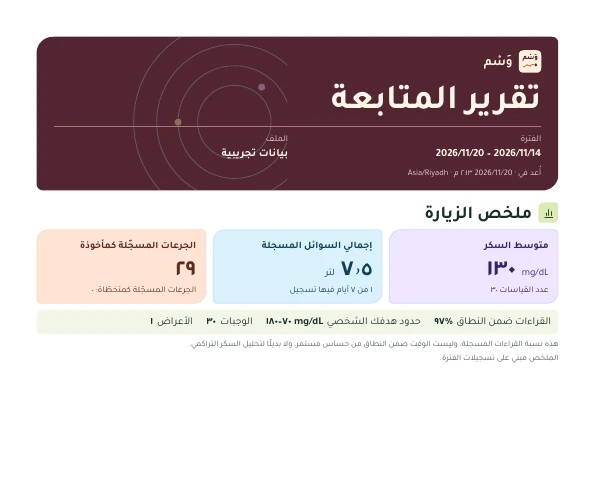
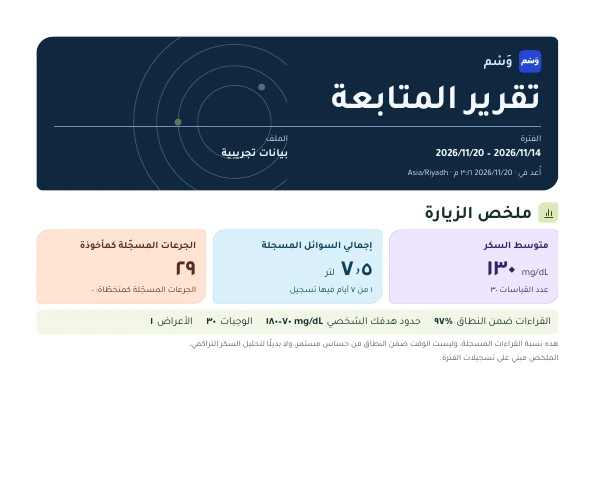
Release v0.18.0: Apply the approved Wasm identity and refresh the README

Changed region(s): [[0.0605, 0.0619, 0.9378, 0.4021]]

diff --git a/app/src/main/java/com/yawmi/diabetes/Reports.kt b/app/src/main/java/com/yawmi/diabetes/Reports.kt
@@ -170,12 +170,7 @@ object Reports {
               <circle cx='179' cy='100' r='4' fill='#d9f587'/><circle cx='277' cy='59' r='4' fill='#dbcaef'/>
             </svg>
             <div class='brand'><svg class='logo' viewBox='0 0 108 108' aria-hidden='true'>
-                <path fill='#FFF2DE' d='M24,0 H84 Q108,0 108,24 V84 Q108,108 84,108 H24 Q0,108 0,84 V24 Q0,0 24,0 Z'/><path fill='#522533' d='M38.5487 37.9203H41.4777V41.9024H38.1208Q35.8829 41.9024 34.3032 40.7506Q32.6248 41.9024 30.0249 41.9024H25.4504Q24.1998 41.9024 23.6732 42.4455Q23.1467 42.9885 23.1467 44.272V50.0971L19 52.2692V44.0745Q19 41.4746 20.4316 39.8291Q21.8632 38.1836 24.2985 37.9532Q23.6403 36.3406 23.6403 34.3002Q23.6403 30.6801 25.615 28.5738Q27.3592 26.7308 30.2224 26.7308Q33.1514 26.7308 34.7969 28.6067Q36.212 30.2193 36.212 32.8192V35.5508Q36.212 36.8343 36.7551 37.3773Q37.2981 37.9203 38.5487 37.9203ZM32.0654 36.0773V32.7534Q32.0654 30.5813 30.2224 30.5813Q29.0376 30.5813 28.363 31.5357Q27.6883 32.4901 27.6883 34.1685Q27.6883 37.9203 30.1566 37.9203Q32.0654 37.9203 32.0654 36.0773Z M39.5031 41.9024V37.9203H42.9915Q44.2421 37.9203 44.7851 37.3773Q45.3282 36.8343 45.3282 35.5508V31.2066L49.4748 29.0346V35.5508Q49.4748 36.8343 50.0014 37.3773Q50.528 37.9203 51.7786 37.9203H54.0165Q55.267 37.9203 55.7936 37.3773Q56.3202 36.8343 56.3202 35.5508V30.351L60.4669 28.146V35.5508Q60.4669 36.8343 61.0099 37.3773Q61.5529 37.9203 62.8035 37.9203H65.0414Q66.292 37.9203 66.8185 37.3773Q67.3451 36.8343 67.3451 35.5508V29.4624L71.4918 27.2903V35.7482Q71.4918 38.6772 69.7146 40.3557Q68.1678 41.8366 65.6338 41.9024H62.3756Q59.9403 41.9024 58.3935 40.4544Q56.9784 41.8695 54.6417 41.9024H51.3836Q48.9483 41.9024 47.4015 40.4544Q45.8547 41.9024 43.4194 41.9024Z M84.8533 40.948Q83.8331 41.1455 82.7471 41.1455Q79.7193 41.1455 77.9093 38.8747Q76.4283 36.9659 76.4283 34.2673Q76.4283 30.6472 78.4029 28.5738Q80.1472 26.7308 83.0103 26.7308Q85.9394 26.7308 87.5849 28.6067Q89 30.2193 89 32.8192V39.862Q89 43.7454 86.9596 45.9833Q85.0508 48.0896 81.7598 48.0896Q79.6864 48.0896 77.7118 46.9706V43.3834Q79.489 44.4036 81.2661 44.4036Q84.4584 44.4036 84.8533 40.948ZM84.8862 32.7534Q84.8862 30.5813 83.0103 30.5813Q81.8256 30.5813 81.1509 31.5357Q80.4763 32.4901 80.4763 34.1356Q80.4763 37.6241 82.9774 37.6241Q84.2938 37.6241 84.8862 36.9659Z'/>
-<path fill='none' stroke='#522533' stroke-width='2.7' stroke-linecap='round' stroke-linejoin='round' d='M76.3300,21.9333 l7.1400,-1.7670'/>
-<path fill='none' stroke='#522533' stroke-width='1.6' stroke-linecap='round' stroke-linejoin='round' d='M54.1400,19.9700 a1.4700,1.4700 0 1,0 2.9400,0 a1.4700,1.4700 0 1,0 -2.9400,0 Z'/>
-<path fill='none' stroke='#C64C36' stroke-width='2.75' stroke-linecap='round' stroke-linejoin='round' d='M24,80 L40,70 L54,76 L66,67 L77,71'/>
-<path fill='#C64C36' d='M21.3500,80.0000 a2.6500,2.6500 0 1,0 5.3000,0 a2.6500,2.6500 0 1,0 -5.3000,0 ZM37.5500,70.0000 a2.4500,2.4500 0 1,0 4.9000,0 a2.4500,2.4500 0 1,0 -4.9000,0 ZM51.5500,76.0000 a2.4500,2.4500 0 1,0 4.9000,0 a2.4500,2.4500 0 1,0 -4.9000,0 Z'/>
-<path fill='#522533' d='M82,61 C80.6,65 76.3,68.4 76.3,72.1 C76.3,75.6 78.9,78.1 82,78.1 C85.1,78.1 87.7,75.6 87.7,72.1 C87.7,68.4 83.4,65 82,61 Z'/>
+                <path fill='#2346D2' d='M22 0 H86 Q108 0 108 22 V86 Q108 108 86 108 H22 Q0 108 0 86 V22 Q0 0 22 0Z'/><g transform='translate(-42.8320 3.6009) scale(0.09470124)'><path fill='#F4F8FC' fill-rule='evenodd' d='M579 749 V634 C579 578 602 537 654 524 C659 460 700 419 762 419 C827 419 865 458 867 516 C867 540 879 557 898 557 C919 557 930 540 930 519 V465 C930 455 942 451 955 451 H979 C988 451 993 455 993 465 V521 C993 541 1004 556 1021 556 C1038 556 1049 539 1049 519 V465 C1049 455 1058 451 1068 451 H1094 C1103 451 1106 456 1106 464 V517 C1106 538 1116 554 1135 555 C1157 555 1165 532 1164 504 L1160 451 C1160 439 1168 434 1180 432 L1209 429 C1222 428 1227 433 1228 444 L1232 505 C1235 589 1209 632 1142 633 C1110 633 1087 620 1074 593 C1061 621 1040 632 1010 633 C985 633 967 621 956 596 C943 622 921 633 891 633 C862 633 839 620 827 598 C809 622 779 633 748 633 C712 633 686 617 670 592 C654 600 648 615 648 633 V707 C649 724 643 733 628 739 C613 745 596 749 579 749Z M761 474 C734 474 708 495 707 523 C705 545 729 562 758 562 C789 562 806 542 806 518 C806 493 788 474 761 474Z M1356 419 C1422 419 1467 462 1466 538 C1465 618 1428 689 1369 717 C1338 733 1306 737 1280 728 C1254 720 1242 698 1246 671 C1247 663 1252 662 1260 664 C1322 675 1385 652 1404 599 C1388 609 1370 614 1350 614 C1296 614 1255 580 1255 527 C1255 466 1297 419 1356 419Z M1358 453 C1346 474 1320 501 1320 523 C1320 544 1337 561 1358 561 C1380 561 1396 544 1396 523 C1396 501 1370 474 1358 453Z M994 372 a35 35 0 1 0 70 0 a35 35 0 1 0 -70 0Z M1011 372 a18 18 0 1 0 36 0 a18 18 0 1 0 -36 0Z M1307 355 L1400 322 C1408 319 1412 324 1409 333 L1406 342 C1404 347 1400 350 1394 352 L1302 382 C1295 385 1293 379 1295 372 L1298 362 C1300 358 1303 357 1307 355Z'/></g>
             </svg>${html(w["app"])}</div>
             <h1>${html(w["report"])}</h1>
             <div class='hero-meta'><div><span>${html(w["tracking_period"])}</span>

diff --git a/app/src/main/java/com/yawmi/diabetes/ReportLayout.kt b/app/src/main/java/com/yawmi/diabetes/ReportLayout.kt
@@ -10,15 +10,15 @@ h1{font-size:35pt;line-height:1.13;font-weight:700}
 h2{font-size:18pt;line-height:1.24}
 h3{font-size:12pt;line-height:1.25}
 bdi{unicode-bidi:isolate}
-.hero{position:relative;isolation:isolate;border-radius:22px 9px 22px 9px;background:#522533;color:#fff6e9;padding:18px 23px 15px;overflow:hidden;break-inside:avoid}
+.hero{position:relative;isolation:isolate;border-radius:22px 9px 22px 9px;background:#10283f;color:#f4f8fc;padding:18px 23px 15px;overflow:hidden;break-inside:avoid}
 .hero-art{position:absolute;width:48%;height:100%;inset-block-start:0;inset-inline-end:0;z-index:-1;opacity:.38}
-.brand{display:flex;align-items:center;gap:8px;font-size:13pt;font-weight:700;color:#fff2de;margin-bottom:7px}
+.brand{display:flex;align-items:center;gap:8px;font-size:13pt;font-weight:700;color:#dce7ff;margin-bottom:7px}
 .logo{width:30px;height:30px;display:block}
-.hero-meta{display:flex;gap:9px 25px;flex-wrap:wrap;align-items:start;border-top:1px solid #af747c;padding-top:8px;margin-top:11px}
+.hero-meta{display:flex;gap:9px 25px;flex-wrap:wrap;align-items:start;border-top:1px solid #7691b8;padding-top:8px;margin-top:11px}
 .hero-meta>div{flex:1 1 42%;min-width:0;overflow-wrap:anywhere}
-.hero-meta span{display:block;color:#f2d7ca;font-size:9pt}
+.hero-meta span{display:block;color:#dce7ff;font-size:9pt}
 .hero-meta strong{font-size:11pt;font-weight:700}
-.generated{font-size:8.5pt;color:#f2d7ca;margin-top:7px}
+.generated{font-size:8.5pt;color:#dce7ff;margin-top:7px}
 .section-title{display:flex;align-items:center;gap:8px;margin:15px 0 7px;break-after:avoid;page-break-after:avoid}
 .mark{width:27px;height:27px;flex:none;display:grid;place-items:center;border-radius:8px 4px 8px 4px;background:#dbeab7;color:#355021}
 .mark svg{width:16px;height:16px;display:block}

diff --git a/app/src/main/java/com/yawmi/diabetes/Design.kt b/app/src/main/java/com/yawmi/diabetes/Design.kt
@@ -59,8 +59,8 @@ fun AppChrome(
     val c = MaterialTheme.colorScheme
     val motion = LocalMotion.current && !p.reduceMotion
     val active = sectionGroup(tab)
-    val dock = Color(0xFF522533)
-    val accent = Color(0xFFFCD2B5)
+    val dock = Color(0xFF10283F)
+    val accent = Color(0xFFDDE8FF)
     Scaffold(containerColor = c.background, snackbarHost = {
         SnackbarHost(snackbar) { data ->
             Snackbar(containerColor = dock, contentColor = Color.White, shape = ControlShape,

diff --git a/README.md b/README.md
@@ -1,104 +1,77 @@
-<p align="center"><img src="docs/media/cover.svg" alt="وَسْم لأندرويد" width="850"></p>
+<p align="center"><img src="docs/media/cover.svg" alt="وَسْم | تطبيق أندرويد لمتابعة السكر والدوا والمية" width="850"></p>
 
-<h1 align="center">وَسْم</h1>
-
-<p align="center">سجّل السكر والمياه والوجبات والجرعات، وارجع ليومك من مكان واحد.</p>
+<p align="center"><strong>سجّل قراءات السكر، تابع دواك، واعرف شربت مية قد إيه.</strong></p>
+<p align="center">متابعة يومية للسكري على أندرويد، مع تذكيرات بتتكيّف مع روتينك. التطبيق مجاني ومفتوح المصدر.</p>
 
 <p align="center">
-  <a href="https://github.com/Mohamedabdelnaby1/nasaq-android/releases/download/v0.17.0/Wasm-v0.17.0.apk"><img src="https://img.shields.io/badge/Android-0.17.0-522533?style=for-the-badge" alt="تنزيل وَسْم 0.17.0"></a>
-  <a href="https://github.com/Mohamedabdelnaby1/nasaq-android/releases"><img src="https://img.shields.io/badge/GitHub-Releases-334360?style=for-the-badge" alt="الإصدارات المنشورة على GitHub"></a>
-  <a href="LICENSE"><img src="https://img.shields.io/badge/License-MIT-397785?style=for-the-badge" alt="رخصة MIT"></a>
+  <a href="https://github.com/Mohamedabdelnaby1/nasaq-android/releases/download/v0.18.0/Wasm-v0.18.0.apk"><img src="docs/media/download-apk.svg" width="195" height="48" alt="حمّل وَسْم 0.18.0 لأندرويد"></a>
+  <a href="https://github.com/Mohamedabdelnaby1/nasaq-android/releases/latest"><img src="docs/media/latest-release.svg" width="168" height="48" alt="أحدث إصدار وسجل تغييراته"></a>
+  <a href="#screens"><img src="docs/media/view-screens.svg" width="168" height="48" alt="شوف التطبيق واللقطات المتحركة"></a>
 </p>
 
-<p align="center"><a href="#download">التنزيل</a> · <a href="#screens">الشاشات والحركة</a> · <a href="#features">المميزات</a> · <a href="#build">البناء</a></p>
-
-<a id="download"></a>
-## التنزيل
-
-**أندرويد 8.0 فأحدث** · العربية والإنجليزية · البيانات محفوظة على الجهاز.
-
-[نزّل Wasm-v0.17.0.apk](https://github.com/Mohamedabdelnaby1/nasaq-android/releases/download/v0.17.0/Wasm-v0.17.0.apk) وثبّته كتحديث فوق نَسَق 0.16.0 والإصدارات الموقّعة بنفس الشهادة. وَسْم هو الاسم الجديد لنَسَق.
-
-[الإصدارات المنشورة وبصمات SHA-256](https://github.com/Mohamedabdelnaby1/nasaq-android/releases)
-
-### التغييرات في 0.17.0
-
-- وَسْم هو الاسم الجديد للتطبيق بالعربي، وWasm بالإنجليزي.
-- شعار وأيقونة مكتوب فيهما وَسْم بالعربي، مع خط قراءات وقطرة ترمز لتسجيل السكر.
-- الاسم والشعار في التطبيق، والتذكيرات، والويدجت، وتقارير PDF، وصور المشروع.
-- يستخدم التحديث نفس هوية التثبيت وتوقيع الإصدار السابق، علشان السجل والإعدادات يفضلوا على نفس الجهاز.
-
-- من مركز التذكيرات تقدر تفعّل «روتين بيتعلّم من يومك». وَسْم يحلل مواعيد تسجيلاتك محليًا خلال آخر ٢١ يوم.
-- التكيّف يحرّك بداية تذكيرات المية في حدود ٩٠ دقيقة بعد ما يلاحظ نمطًا في ٤ أيام على الأقل، ويتخطّى التنبيه القريب لو كنت سجّلت مية. مواعيد الدوا والقياس بتتبع خطتك.
-
-### التغييرات في 0.16.0
-
-- الرئيسية تبدأ بتسجيل قراءة السكر وكوب المياه، مع مكان واحد لتخصيص البطاقات وفتح ملخص اليوم.
-- الإعدادات مجمّعة حسب المهمة. تعديل هدف المياه وحجم الكوب له صفحة واحدة، ومراجعة مواعيد الأدوية تستخدم صفحة أدويتي نفسها.
-- الرجوع من شاشة المياه أو تخصيصها يرجّعك للشاشة اللي فتحتها منها. بطاقات الويدجت تفتح شاشاتها مباشرة.
-- تصميم الويدجت يستخدم مسافات ثابتة للأزرار وحواف متناسقة. اللون والتوزيع في تبويب الشكل، والخط والحواف والشفافية تحت اختيار واحد.
-- محرر السجل يفضل مفتوح لو الحفظ تعذّر، ويبلغك لو فيه تعديل أحدث قبل ما يستبدله.
-
-### التغييرات في 0.15.0
-
-- بداية سريعة لتسجيل أول قراءة أو كوب من شاشة الترحيب، مع الوصول للإعدادات المفصّلة عند الحاجة.
-- إجمالي مياه النهارده والهدف ظاهرين بنفس الحساب في الرئيسية والويدجت وصفحة المياه، مع الاحتفاظ بمتابعة الفترات الأخرى.
-- المساعد المحلي يجهّز مسودات بمواعيد نسبية مثل «شربت كوبايتين من ساعة»، وتقدر تراجع الوقت والكمية قبل الحفظ.
-- اختبار تنبيه حسب القناة مع تسجيل إذا كنت شفته، وتأجيل التنبيه من مراجعة الجرعة المستحقة.
-- معاينة أرقام التقرير قبل التصدير، واختيار ملخص الزيارة أو تقرير تفصيلي يبدأ بصفحة الملخص.
-
-[تجربة النسخة على أجهزة فعلية](docs/BETA_QA_AR.md)
-
-### التغييرات في 0.14.1
-
-- مسافة متناسقة بين الحواف الدائرية وعناصر الويدجت، خاصة في المقاسات الصغيرة وعند اختيار أكبر استدارة.
-
-### التغييرات في 0.14.0
-
-- ويدجتس جديدة برسوم للسكر والمياه، وتوزيعات تتكيف مع المقاس.
-- معاينة بمقاس الويدجت الفعلي وإعدادات مستقلة لكل نسخة، تشمل ترتيب البطاقات ووظيفة الزر السريع والألوان.
-- كل بطاقة تفتح قسمها، وقفل التطبيق يخفي بيانات الويدجت ويمنع التسجيل المباشر.
-- تحقّق إضافي من أن معاينة استرجاع النسخة المشفّرة ما زالت مطابقة لحالة السجل وقت الحفظ.
-
-### الجديد في الإصدار المنشور 0.13.0
-
-- تقرير PDF بتصميم نَسَق الجديد، مع شعار وفترة واضحة في أول صفحة.
-- ملخص ملوّن للسكر والسوائل والجرعات، ورسم للقراءات بدليل ألوان ونطاق الهدف.
-- جداول مقروءة على مقاس A4 تدعم العربي والإنجليزي، وعناوين الأعمدة تتكرر في الصفحات التالية.
-- خيارات التصدير بتحدد الأقسام والاسم والملاحظات. إخفاء الملاحظات بيوسّع مساحة الأعمدة الظاهرة.
+<p align="center">أندرويد 8.0 أو أحدث · عربي وإنجليزي · وضع فاتح وداكن</p>
+<p align="center"><a href="#features">المميزات</a> · <a href="#install">التثبيت</a> · <a href="#build">بناء المشروع</a></p>
 
 <a id="screens"></a>
-## الشاشات والحركة
+## شوف وَسْم
 
-اللقطات التالية من نسخة أندرويد وبتستخدم بيانات تجريبية.
+<sub>لقطات من الإصدار 0.18.0 بأرقام تجريبية. اضغط على أي لقطة عشان تفتحها بالحجم الكامل.</sub>
 
-| يومك | المياه | الإعدادات |
-| :---: | :---: | :---: |
-| <img src="docs/media/today.webp" alt="شاشة اليوم مع تسجيل السكر والكوب مباشرة" width="225"> | <img src="docs/media/hydration.webp" alt="زجاجة المياه وكوبايات التسجيل" width="225"> | <img src="docs/media/settings.webp" alt="الإعدادات مرتبة حسب المهمة" width="225"> |
+<p align="center">
+  <a href="docs/media/today.webp"><img src="docs/media/today.webp" width="224" alt="اليوم — متوسط السكر ومية النهارده والتسجيل السريع"></a>
+  <a href="docs/media/glucose-entry.webp"><img src="docs/media/glucose-entry.webp" width="224" alt="تسجيل قراءة السكر وتحديد سياق القياس"></a>
+  <a href="docs/media/medicines.webp"><img src="docs/media/medicines.webp" width="224" alt="أدويتي — التذكير القادم والجرعات المسجلة"></a>
+</p>
+<p align="center"><strong>اليوم · تسجيل السكر · أدويتي</strong></p>
 
-| الويدجتس | تسجيل المياه |
+<p align="center">
+  <a href="docs/media/hydration.webp"><img src="docs/media/hydration.webp" width="224" alt="مياه النهارده — الكمية المسجلة والتقدم نحو الهدف"></a>
+  <a href="docs/media/journal.webp"><img src="docs/media/journal.webp" width="224" alt="السجل — قراءات السكر والمية مرتبة حسب الوقت"></a>
+  <a href="docs/media/routine-learning.webp"><img src="docs/media/routine-learning.webp" width="224" alt="إعدادات الروتين والتذكيرات التي تتكيف بمرور الوقت"></a>
+</p>
+<p align="center"><strong>المية · السجل · التذكيرات المتكيّفة</strong></p>
+
+### التطبيق وهو شغّال
+
+| التنقّل بين الشاشات | حركة تسجيل المية |
 | :---: | :---: |
-| <img src="docs/media/widget-board.png" alt="ويدجت متوسط السكر وإجمالي المياه والدواء" width="290"> | <img src="docs/media/widget-water.png" alt="ويدجت المياه الصغير بزرين للإضافة والتراجع" width="175"> |
+| <a href="docs/media/navigation.webp"><img src="docs/media/navigation.webp" width="275" alt="معاينة متحركة للتنقل بين شاشات وَسْم"></a> | <a href="docs/media/water-motion.webp"><img src="docs/media/water-motion.webp" width="275" alt="معاينة متحركة لارتفاع مستوى المياه أثناء تسجيل كوب"></a> |
 
-[إعدادات السكر](docs/media/glucose-options.webp) · [إعدادات المياه](docs/media/water-options.webp) · [معاينة استوديو الويدجت](docs/media/widget-studio.webp) · [الخط الزمني](docs/media/timeline.webp) · [معاينة التنقل بين الشاشات](docs/media/navigation.webp) · [معاينة حركة امتلاء الكوبايات](docs/media/water-motion.webp)
+### الويدجتس والتقارير
 
-[شاشة الأدوية](docs/media/medicines.webp) · [السجل](docs/media/journal.webp) · [معاينة تقرير PDF](docs/media/report.webp) · [الروتين المتكيّف](docs/media/routine-learning.webp) · [الشعار العربي](docs/media/wasm-logo.svg) · [الأيقونة](docs/media/wasm-icon.svg)
+| ويدجت اليوم | ويدجت المية |
+| :---: | :---: |
+| <a href="docs/media/widget-board.png"><img src="docs/media/widget-board.png" width="340" alt="ويدجت اليوم لمتوسط السكر والمية والأدوية"></a> | <a href="docs/media/widget-water.png"><img src="docs/media/widget-water.png" width="175" alt="ويدجت المية مع زر تسجيل كوب سريع"></a> |
+
+[معاينة استوديو الويدجتس](docs/media/widget-studio.webp) · [معاينة تقرير PDF](docs/media/report.webp)
 
 <a id="features"></a>
 ## المميزات
 
-| الجزء | اللي تقدر تعمله |
+| الميزة | بتعمل إيه؟ |
 | --- | --- |
-| **اليوم** | تبدّل بين المختصر والتفصيلي، ترتّب البطاقات بالسحب وتشوف معاينتها، وتفتح يوم من شريط التقويم. |
-| **الخط الزمني والمتابعة** | تشوف السكر والأكل والمياه والجرعات حسب الساعة، وتقارن متوسط القراءات وعددها لفترات ٧ أو ١٤ أو ٢٨ يوم، مع تصفية قبل الأكل وبعده. |
-| **تسجيل سريع** | تكتب «شربت ٢٥٠ مل» وتراجع المسودة قبل الحفظ. التطبيق يرتّب الاختصارات حسب استخدامك ويعرض الكمية المتكررة من سجلّك. تقدر تثبّت اختصار، تخفي كمية مقترحة، أو تبدأ التعلّم المحلي من جديد من الإعدادات. |
-| **الويدجتس** | تختار القالب والمقاس والألوان والمحتوى، وتشوف معاينة قبل الإضافة. بطاقات السكر والمياه بتتبع اختيارات الحساب في الإعدادات، وكل بطاقة تفتح القسم بتاعها، وفي مقاس مياه صغير بيفتح شاشة المياه من البطاقة نفسها، وفيه إجراءات منفصلة للتسجيل والتراجع. |
-| **أدوات السجل** | تستورد CSV بمعاينة للتكرار والصفوف غير الصالحة، وتحدد أقسام تقرير PDF واسمه وتكتب ملاحظتك قبل تصديره. تقدر تنقل السجل بنسخة مشفّرة وتراجع الدمج قبل الحفظ. |
-| **الوقت** | المواعيد ومحرر الوقت يظهروا بنظام ١٢ ساعة. CSV بيستخدم توقيت ISO لنقل البيانات بين الأدوات. |
+| **السكر** | تسجّل القراءات وسياقها وتشوف المتوسط لفترة تختارها، مع دعم `mg/dL` و`mmol/L`. |
+| **الأدوية** | تضيف مواعيد الدوا، تشوف التذكير الجاي، وتسجّل حالة كل جرعة. |
+| **المية** | تشوف إجمالي اللي شربته النهارده وتسجّل كوباية بسرعة، وتضبط هدفك وحجم الكوباية. |
+| **التذكيرات المتكيّفة** | بتتعلم من مواعيد تسجيلك على الجهاز وتضبط توقيت تذكيرات المتابعة اللي تسمح بيها. تقدر تقفل التكيّف أو تمسح الروتين المتعلَّم من الإعدادات. |
+| **ويدجتس الشاشة الرئيسية** | تعرض السكر أو المية أو الدوا حسب القالب والمحتوى اللي اخترته، مع اختصارات للتسجيل. |
+| **السجل والتصدير** | تراجع يومك، وتصدّر CSV أو تقرير PDF وتحتفظ بنسخة احتياطية محلية. |
 
-### استيراد CSV
+بيانات السجل وتعلّم الروتين على جهازك. تقدر تشارك ملف التصدير وقت ما تحتاجه.
 
-تقدر تبدأ بملف صادر من وَسْم. لو بتجهّز ملف بنفسك، الأعمدة المطلوبة هي `measured_at_iso` و`kind` و`value` أو `value_original`. السكر والمياه ليهم عمود وحدة `unit`.
+<a id="install"></a>
+## التثبيت والتحديث
+
+1. حمّل [Wasm-v0.18.0.apk](https://github.com/Mohamedabdelnaby1/nasaq-android/releases/download/v0.18.0/Wasm-v0.18.0.apk) وافتحه على الموبايل.
+2. اسمح بالتثبيت من تطبيق التحميل لو أندرويد طلب الإذن.
+3. لو عندك إصدار رسمي من 0.16.0 أو أحدث، ثبّت التحديث فوقه للاحتفاظ ببياناتك.
+
+[كل الإصدارات](https://github.com/Mohamedabdelnaby1/nasaq-android/releases) · [ملف التحقق SHA-256](https://github.com/Mohamedabdelnaby1/nasaq-android/releases/download/v0.18.0/Wasm-v0.18.0-SHA256.txt)
+
+<details>
+<summary>استيراد قراءات بصيغة CSV</summary>
+
+افتح الاستيراد من الإعدادات. استخدم `measured_at_iso` و`kind` و`value` أو `value_original`. حدّد وحدة القياس في `unit`.
 
 ```csv
 measured_at_iso,kind,value,unit
@@ -106,21 +79,19 @@ measured_at_iso,kind,value,unit
 2026-11-17T08:00:00Z,glucose,118,mg/dL
 ```
 
-### الخصوصية
-
-السجل مشفّر على الجهاز، وتقدر تعمل نسخة احتياطية مشفّرة بكلمة مرور. إظهار القراءات على الشاشة الرئيسية اختيار مستقل لكل ويدجت. ترتيب الاختصارات بيتحسب على الجهاز من السجل.
+</details>
 
 <a id="build"></a>
-## البناء والمساهمة
+## بناء المشروع والمساهمة
 
-يتطلب **JDK 17** و**Android SDK 36** مع **Build Tools 36.0.0**. مسار الاختبار الرسمي في [GitHub Actions](https://github.com/Mohamedabdelnaby1/nasaq-android/actions).
+المتطلبات **JDK 17** و**Android SDK 36** مع **Build Tools 36.0.0**.
 
 ```sh
 ./gradlew :app:assembleDebug :app:testDebugUnitTest :app:lintDebug
 ```
 
-على Windows استخدم `gradlew.bat`. ملف البناء بيظهر في `app/build/outputs/apk/debug/`. للإبلاغ عن مشكلة أو اقتراح ميزة استخدم [Issues](https://github.com/Mohamedabdelnaby1/nasaq-android/issues).
+على ويندوز استخدم `gradlew.bat`. هتلاقي APK التجريبي في `app/build/outputs/apk/debug/`.
 
-## الترخيص
+[فحوصات البناء](https://github.com/Mohamedabdelnaby1/nasaq-android/actions) · [دليل تجربة النسخة](docs/BETA_QA_AR.md) · [بلّغ عن مشكلة أو اقترح فكرة](https://github.com/Mohamedabdelnaby1/nasaq-android/issues)
 
-تطوير [محمد عبدالنبي](https://fb.com/mohamedabdelnaby190) · [رخصة MIT](LICENSE) · [ترخيص خط تجوال](app/src/main/assets/licenses/Tajawal-OFL.txt).
+[محمد عبدالنبي](https://fb.com/mohamedabdelnaby190) · [رخصة MIT](LICENSE) · [ترخيص خط تجوّل](app/src/main/assets/licenses/Tajawal-OFL.txt)

diff --git a/docs/STATUS.md b/docs/STATUS.md
@@ -1,6 +1,6 @@
-# وَسْم 0.17.0
+# وَسْم 0.18.0
 
-وَسْم هو الاسم الجديد لنَسَق. حزمة أندرويد هي `com.yawmi.diabetes` برقم البناء 20. يستخدم التحديث شهادة الإصدار السابق ونفس مسارات التخزين والسجلات والنسخ الاحتياطية.
+وَسْم هو الاسم الجديد لنَسَق. حزمة أندرويد هي `com.yawmi.diabetes` برقم البناء 21. يستخدم التحديث شهادة الإصدار السابق ونفس مسارات التخزين والسجلات والنسخ الاحتياطية.
 
 - عُرضت الهوية الجديدة في العربية والإنجليزية، مع أيقونة أندرويد قابلة للتكيّف وأيقونة أحادية اللون عند دعم المشغّل لها.
 - حُدّثت شاشات التطبيق والويدجت والتقارير، وأُعيد التقاط صور المشروع من نسخة التحديث.

diff --git a/docs/BETA_QA_AR.md b/docs/BETA_QA_AR.md
@@ -1,4 +1,4 @@
-# تجربة وَسْم 0.17.0 على أجهزة فعلية
+# تجربة وَسْم 0.18.0 على أجهزة فعلية
 
 جرّب النسخة لمدة أسبوع مع ٨–١٢ متطوعًا على أجهزة وأحجام شاشات مختلفة. استخدم سجلًا تجريبيًا، واكتفِ في ورقة النتائج بزمن المهام والنتيجة والملاحظات عن الواجهة.
 
@@ -21,4 +21,3 @@
 - راجع نتيجة التنبيهات في الخلفية وعلى شاشة القفل بشكل مستقل لكل جهاز.
 
 النسخة الحالية تشمل تجهيزات التجربة واختبارات آلية. نتائج المتطوعين وتجربة اللانشر والطباعة على أجهزة فعلية تُسجّل بعد تنفيذ التجربة.
-
